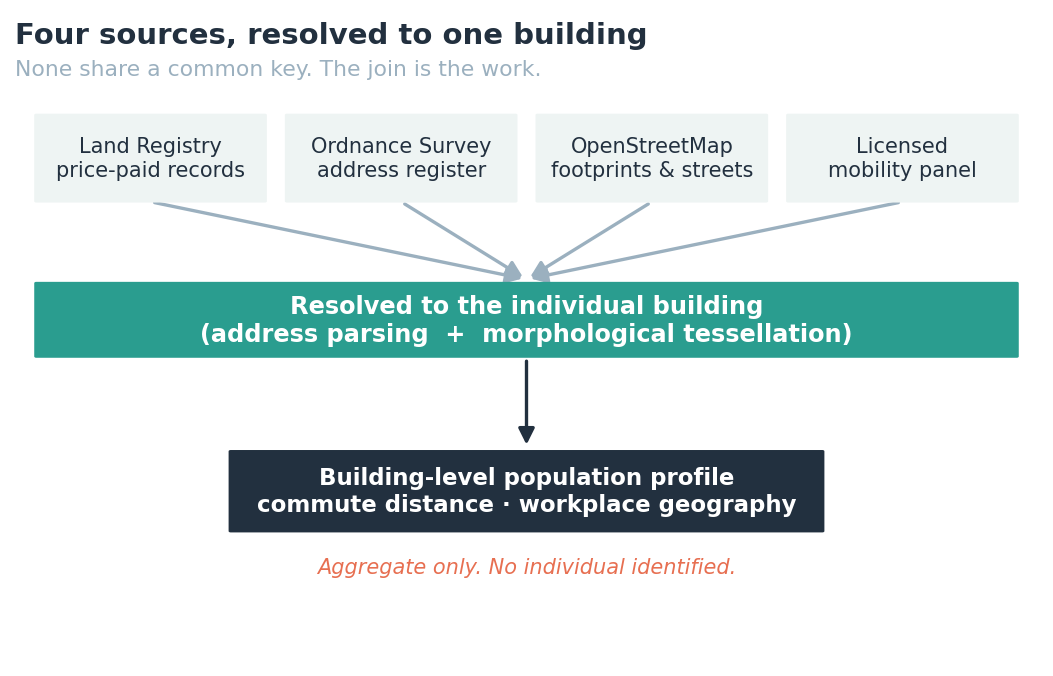
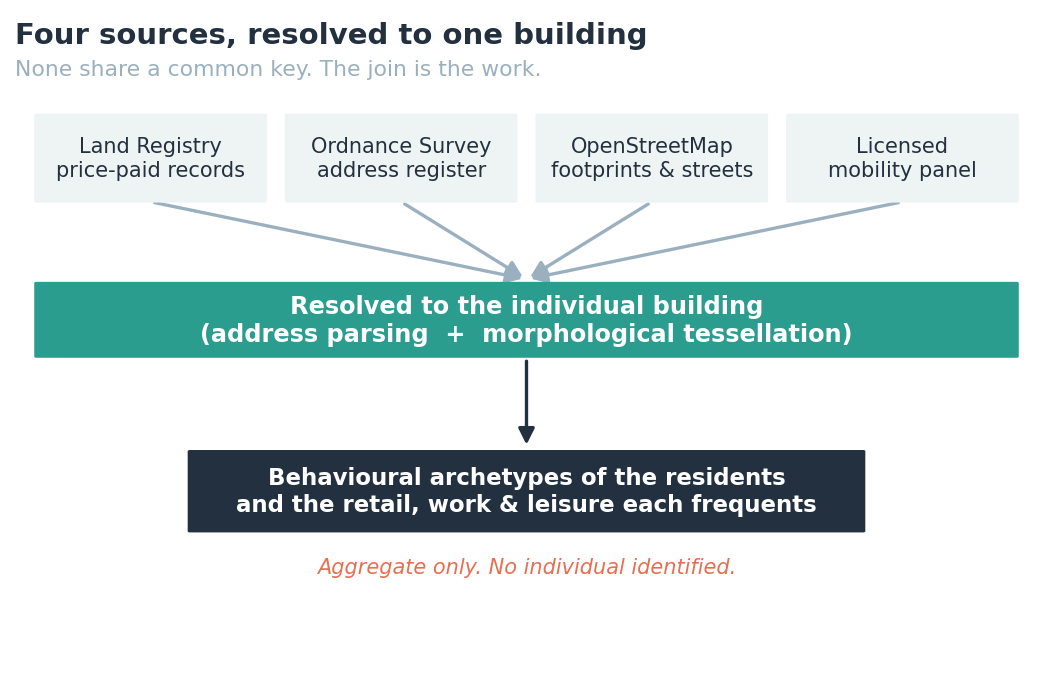
Rework city-as-buildings: lead with research intent (resident archetypes + amenity profiling)

Changed region(s): [[0.1519, 0.6524, 0.8205, 0.8077]]

diff --git a/pieces/city-as-buildings.md b/pieces/city-as-buildings.md
@@ -1,36 +1,38 @@
 ---
-title: Rebuilding a city as a map of its buildings
-description: Joining property records, address registers, map data and an aggregate mobility panel into a building-level picture of who lives where, for a real estate investor.
+title: Designing a building around the people who will live in it
+description: Finding the residents of comparable developments in an aggregate mobility panel, clustering them into behavioural archetypes, and profiling the retail, work and leisure each one gravitates to, to inform a new residential scheme.
 ---
 
 *A decision-science engagement for an institutional real estate investor, through London Data Unit. Anonymised. Built on public data (HM Land Registry price-paid records, Ordnance Survey AddressBase, OpenStreetMap) and a licensed, aggregate mobility panel. No individual is identified anywhere in the method or its output.*
 
 [&larr; Back to portfolio](../)
 
-![Four unrelated datasets resolved to a common building-level unit.](../assets/fig/bp_assembly.png)
-*Four datasets that share no common key, resolved to one unit: the individual building. Getting them to line up is most of the work.*
+![Four unrelated datasets resolved to a building, then to resident archetypes.](../assets/fig/bp_assembly.png)
+*Four datasets that share no common key, resolved to one unit (the individual building) and then to the behavioural archetypes of the people who live in that kind of building.*
 
-## The idea in one line
+## The question behind it
 
-The investor wanted to understand the resident population around prime London residential assets: roughly who lives there, where they work, how far they travel. No register answers that at building level, so the picture is assembled from public property and map data and an aggregate mobility panel, resolved down to individual buildings, with no person ever named or singled out.
+The investor was in the design phase of a large new high-end residential scheme and wanted to answer a question no survey can reach: who will actually live here, and what do they want? You cannot ask the residents of a building that does not exist yet. So the project works backwards: find the residents of comparable existing developments, cluster them into a handful of behavioural archetypes, and profile what each archetype actually does, where they shop, where they work, where they go for leisure, how they move, so the new building can be designed and marketed around real people rather than a demographic guess.
+
+Everything below (joining property records, carving the city into buildings, reducing a mobility panel) exists to serve that one goal: a set of resident archetypes an architect and a marketing team can actually use.
 
 ## What this piece demonstrates
 
-- **Entity resolution is where the accuracy actually lives.** Property transaction records and the national address register describe the same buildings but share no common key, and both store addresses as free text: "23-33", "45A", "STAR & GARTER HOUSE", "CENTRE POINT TOWER 101-103". A parser pulls each string apart into structured components (building number, range, suffix, name) so the two sources can be joined. This unglamorous step determines whether everything downstream is attached to the right building.
-- **A targeted filter finds the right stock.** Restricting to buildings with several separate high-value flat transactions isolates converted and subdivided houses, the specific asset type the investor cared about, straight from the transaction pattern.
-- **The city is carved into buildings, not circles.** Instead of arbitrary catchment radii, a morphological tessellation divides the map into street-bounded cells around each building footprint, so every observation can be attributed to the building it genuinely belongs to.
-- **Movement becomes an aggregate, never a profile of a person.** The mobility panel is reduced to stay points, then to an inferred home and workplace per device, then immediately aggregated to a building-level summary of commute distance and workplace geography. The unit of analysis is the building; a device is only ever a means to that aggregate.
+- **It starts from the commercial decision, not the data.** The deliverable is not a map of where people are; it is a characterisation of who the future residents are likely to be and what they value, aimed squarely at design and marketing choices. The analysis is reverse-engineered from that.
+- **Entity resolution is where the accuracy lives.** Property transaction records and the national address register describe the same buildings but share no common key, and both store addresses as free text: "23-33", "45A", "STAR & GARTER HOUSE", "CENTRE POINT TOWER 101-103". A parser pulls each string into structured components so the two can be joined, and a filter on buildings with several separate high-value flat sales isolates the comparable stock. If this step is wrong, every archetype downstream is built on the wrong buildings.
+- **The city is carved into buildings, not circles.** A morphological tessellation divides the map into street-bounded cells around each building footprint, so "a resident of this development" means a sensible boundary rather than an arbitrary radius.
+- **Movement becomes behaviour, then archetypes.** The mobility panel is reduced to stay points; the places each resident dwells are attributed to points of interest (down to the kind of venue) to build per-resident behavioural features; those features are clustered, with the usual tests for how many clusters the data really supports, into the salient archetypes. The person is always a means to an aggregate; the output is the archetypes and their amenity profiles, never an individual.
 
 ## How it fits together
 
-Public property records give high-value flat transactions; the address parser and a join to the national address register turn those into geocoded buildings. Map data supplies building footprints and the street network, from which a morphological tessellation produces one street-bounded cell per building. The licensed mobility panel is processed with stay-point detection, attributed to those cells, and reduced to inferred home and workplace per device. Everything is then aggregated to the building: a population profile of commute patterns and workplace zones, built from four sources that were never designed to be joined, and holding nothing about any individual.
+Public property records give high-value flat transactions; the address parser and a join to the national address register turn those into geocoded comparable buildings. Map data supplies footprints and the street network, from which a morphological tessellation produces one street-bounded cell per building. The licensed mobility panel is processed with stay-point detection and attributed to those cells to identify likely residents; their dwell locations are labelled against points of interest to build behavioural features; and those features are clustered into archetypes, each described by the retail, workplace and leisure patterns that define it and by how it is distributed across the geography. Four sources that were never designed to be joined, resolved into a handful of actionable resident types, holding nothing about any individual.
 
 ![A messy address string resolved into structured, joinable fields.](../assets/fig/bp_entity.png)
 *The parser that makes the join possible: free-text address strings resolved into the structured fields that let property records and the address register meet.*
 
 ## Honest limits
 
-This describes the method, not the client's output or any building's residents. A mobility panel is a sample, skewed by who carries which apps, and inferred home and workplace are probabilistic rather than ground truth. The address resolution is imperfect, so the matched buildings are a subset of all of them. The mobility data is licensed and privacy-constrained; nothing individual is shown here or shareable. The value is the pipeline itself: assembling a building-resolution population picture from sources that share no key, while deliberately keeping the person out of the output.
+This describes the method and its intent, not the archetypes themselves: the client's findings were delivered to them and are not mine to publish, so there are no cluster profiles or numbers here. A mobility panel is a sample, skewed by who carries which apps, and inferred residence and dwell behaviour are probabilistic rather than ground truth. The address resolution is imperfect, so the comparable buildings are a subset. The mobility data is licensed and privacy-constrained; nothing individual is shown or shareable. The value on display is the approach: turning "who will live in our building" into a defensible, aggregate, build-around-able set of archetypes, from data that was never meant to answer it.
 
 ---
 

diff --git a/index.md b/index.md
@@ -22,7 +22,7 @@ Each piece below is a real analysis. Some client work is anonymised; self-direct
 - **[The £138,750 hidden inside a warehouse rent](pieces/hines-logistics):** a vehicle-routing and geodemographic study for Hines that put a number on the logistics cost buried in where a warehouse sits. Published as a research paper. **Live.**
 - **[Finding store sites with graph theory instead of a map](pieces/woodfine-site-selection):** modelled every retailer in the US as a graph to find where a Walmart, a Costco and a Home Depot cluster together, ranking 9,189 candidates down to 41. **Live.**
 - **[Scoring every site in a country as a location](pieces/site-scoring-engine):** a multi-criteria model that ranks a national network of fuel-and-logistics sites against roughly 38 signed criteria, from port growth to competitor pricing gaps, across six countries. **Live.**
-- **[Rebuilding a city as a map of its buildings](pieces/city-as-buildings):** joined property records, address registers, map data and an aggregate mobility panel into a building-level picture of who lives where, for a real estate investor. Aggregate only, no individual identified. **Live.**
+- **[Designing a building around the people who will live in it](pieces/city-as-buildings):** found the residents of comparable developments in an aggregate mobility panel and clustered them into behavioural archetypes, to inform the design and marketing of a new residential scheme. Aggregate only, no individual identified. **Live.**
 
 ### Marketplace and growth
 
